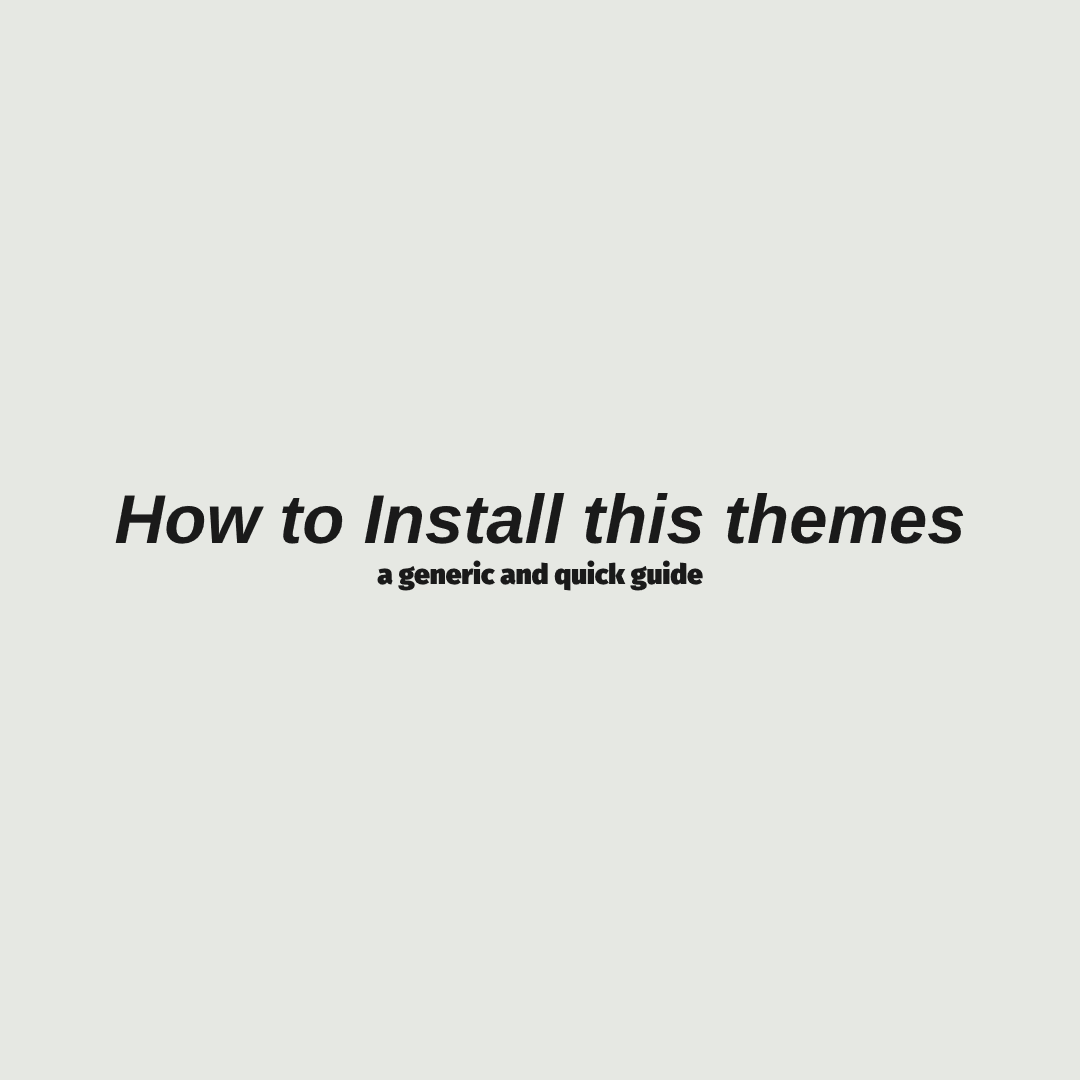
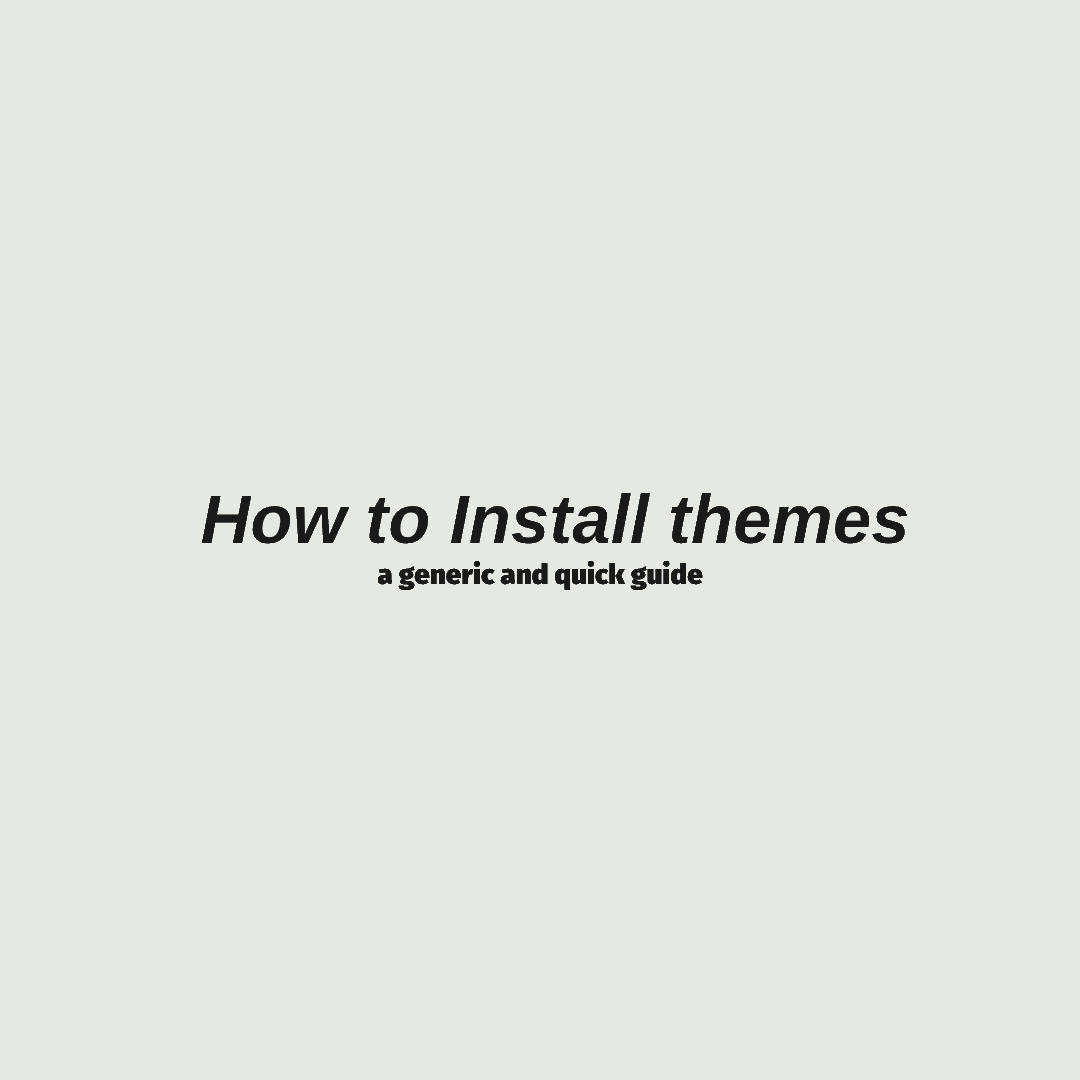
merged generic tutorial and updated readme

Changed region(s): [[0.0917, 0.4583, 0.8861, 0.5194]]

diff --git a/README.md b/README.md
@@ -1,19 +1,58 @@
 # FirefoxCSS-Store
 <p align="center">A collection site of Firefox userchrome themes, mostly from FirefoxCSS Reddit. <a href="https://firefoxcss-store.github.io/">Preview here.</a></p>
 
-**How to add a theme via PullRequest:**
+## Generic Installation
 
-1. Edit ```index.html```.
-2. Add your theme in ```<div id="main">``` below line 31 in the code with the next code,
-3. You must sustitute capitalized text with the following info:
-4. Links to pictures, link to repository or simple download, theme name, author and description.
-	
-```html
-<article class="thumb">
-	<a href="LINK TO THUMBNAIL PICTURE BETTER A NO-ANIMATED PICTURE" class="image"><img src="LINK TO PICTURE, CAN BE A GIF" alt="" /></a>
-	<h2><a href="LINK TO REPO IN GITHUB OR SIMPLY DOWNLOAD LINK" class="icon brands fa-github"> THEME NAME </a> </h2> <h3> <a href="LINK TO REPO IN GITHUB OR SIMPLY DOWNLOAD LINK" class="fas fa-download" ></a>  </h3> <h4 class="fas fa-plus-circle"></h4>
-	<p>DESCRIPTION OF THEME</p>
-</article>
++ Go to the wanted theme and click the download button.
++ You should now be on the github page for that topic.
++ Below you should see a guide on how to install that particular theme and a few preview pictures. Anyway, here are some common steps for all themes.
+
+1. Download theme with the big green button "Code" >> Download.zip
+2. Open `about:config` page.
+3. A dialog will warn you, but ignore it, ~~just do it~~ press the `I accept the risk!` button.
+4. Search for these:
+
+	+ **`toolkit.legacyUserProfileCustomizations.stylesheets`**
+	+ **`layers.acceleration.force-enabled`**
+	+ **`gfx.webrender.all`**
+	+ **`gfx.webrender.enabled`**
+	+ **`layout.css.backdrop-filter.enabled`**
+	+ **`svg.context-properties.content.enabled`**
+
+	Then make sure to **enable them all!**.
+
+5. Go to your Firefox profile.
+
+	+ Linux - `$HOME/.mozilla/firefox/XXXXXXX.default-XXXXXX/`.
+	+ Windows 10 - `C:\Users\<USERNAME>\AppData\Roaming\Mozilla\Firefox\Profiles\XXXXXXX.default-XXXXXX`.
+	+ macOS - `Users/<USERNAME>/Library/Application Support/Firefox/Profiles/XXXXXXX.default-XXXXXXX`.
+
+6. Create a folder and name it **`chrome`**, then assuming that you already have cloned this repo, just copy the theme to `chrome` folder.
+7. Restart Firefox.
+
+## Add your theme <3
+
+1. If you have a Github account:
+  1. Fork this repository.
+  2. Look for a file called `themes.json`, open and edit it.
+  3. Add a comma `,` right after the last **curly bracket }**.
+  4. Copy the [following code](###Code) and paste it in the file.
+  5. Add the properties of your theme: **title**, **link**, **description** and **image**.
+  6. Send it as a pull request in the repository.
+2. If you have a Twitter account:
+  1. Send **at least** the following properties: **picture**, **link** to [@Neikon66](https://twitter.com/Neikon66). 
+
+### Code
+
+```
+{
+		"title": "..........",
+		"link": "..........",
+		"description": "..........",
+		"image": ".........."
+}
 ```
 
-Feel free to send me any feedback via issue or my twitter [@Neikon66](https://twitter.com/Neikon66).
+# What you think =?
+
+<p align="center">Feel free to send me any feedback via issue or my twitter [@Neikon66](https://twitter.com/Neikon66).</p>
